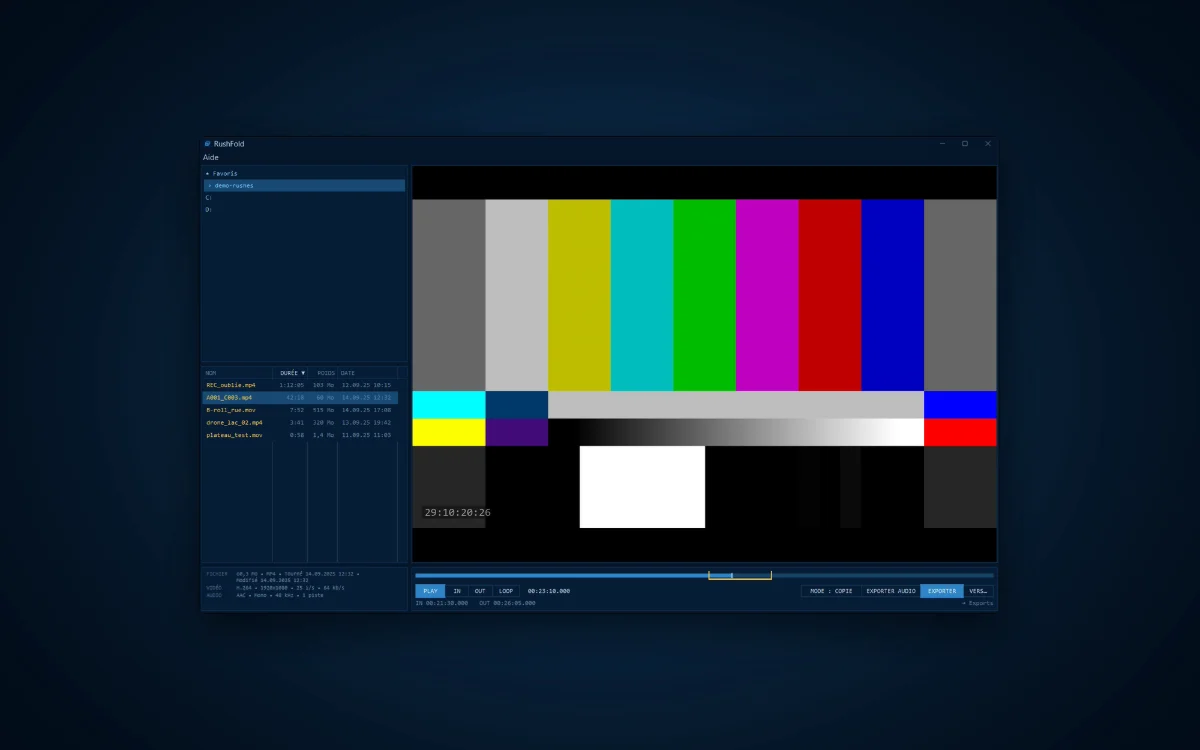
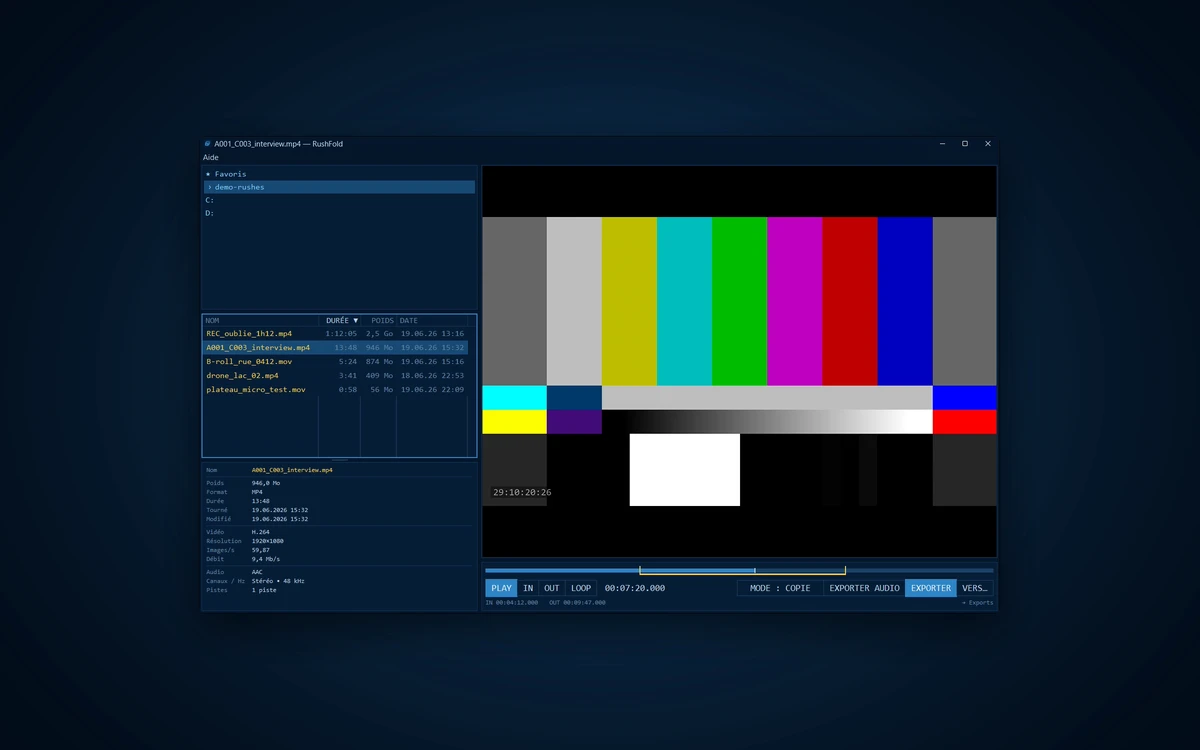
Nouvelle capture de démo RushFold (1200 px, WebP 26 Ko)

diff --git a/index.html b/index.html
@@ -217,8 +217,8 @@ footer .links{display:flex;gap:18px;flex-wrap:wrap}
     </div>
 
     <picture>
-      <source type="image/webp" srcset="rushfold-hero-1200.webp 1200w, rushfold-hero-2000.webp 2000w" sizes="(min-width:1072px) 1040px, calc(100vw - 32px)">
-      <img src="rushfold-hero-2000.png" width="2000" height="1250" alt="RushFold : explorateur de rushes, barre IN/OUT et export sans perte" fetchpriority="high">
+      <source type="image/webp" srcset="rushfold-hero-1200.webp">
+      <img src="rushfold-hero-1200.png" width="1200" height="750" alt="RushFold : explorateur de rushes, barre IN/OUT et export sans perte" fetchpriority="high">
     </picture>
   </div>
 

diff --git a/CLAUDE.md b/CLAUDE.md
@@ -24,7 +24,7 @@ Ces règles passent avant tout le reste, à chaque modification.
 |---|---|
 | `index.html` | Tout le site : accueil, page RushFold, page Merci, CSS, JS, favicon. |
 | `fonts/` (3 fichiers woff2) | Polices du design, réduites aux graisses et caractères utilisés (88 Ko au total). Hébergées ici plutôt que chez Google pour la vie privée des visiteurs. Les intégrer dans le HTML alourdirait la page d'un tiers. |
-| `rushfold-hero-*` (2 WebP + 1 PNG) | Capture de l'app affichée en tête de la page RushFold. Le navigateur charge un WebP (15 Ko en 1200 px, 32 Ko en 2000 px) ; le PNG (298 Ko) n'est qu'un secours pour les très vieux navigateurs. Une image ne peut pas être intégrée au HTML sans l'alourdir. |
+| `rushfold-hero-1200.*` (1 WebP + 1 PNG) | Capture de l'app affichée en tête de la page RushFold. Le navigateur charge le WebP (26 Ko) ; le PNG (134 Ko) n'est qu'un secours pour les très vieux navigateurs. Une image ne peut pas être intégrée au HTML sans l'alourdir. |
 | `.nojekyll` | Fichier vide : GitHub Pages sert les fichiers tels quels, sans étape de build. |
 | `CLAUDE.md` | Ce document. Public dans le dépôt : n'y écris jamais rien de confidentiel. |
 
@@ -51,7 +51,7 @@ Tu endosses chacun de ces rôles selon la tâche. Avant de livrer, passe ta modi
 - Responsive : aucun défilement horizontal à 400 px de large.
 
 ### 3. Performance
-- **Budget : 150 Ko** pour la page complète (actuellement environ 130 Ko sur la page RushFold : polices 88 Ko, image WebP 32 Ko, HTML compressé environ 9 Ko).
+- **Budget : 150 Ko** pour la page complète (actuellement environ 125 Ko sur la page RushFold : polices 88 Ko, image WebP 26 Ko, HTML compressé environ 9 Ko).
 - Aucune ressource externe : pas de CDN, pas de Google Fonts, pas de script tiers.
 - Polices : `font-display: swap`, préchargement des deux principales, aucune nouvelle police.
 - Images futures : WebP ou AVIF, `width`/`height` fixés, `loading="lazy"` hors du premier écran.
